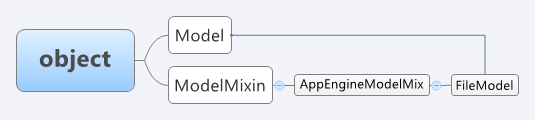
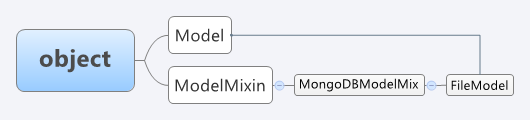
now? now will it commit?
git-svn-id: https://svn.cs.hmc.edu/cs181b/fall11/ours/hsaxberg-jhester@979 b3dceee4-e711-448b-9f10-89700535f856

Changed region(s): [[0.2415, 0.125, 0.966, 0.875], [0.0604, 0.4, 0.2113, 0.6]]

diff --git a/final report/final report.tex b/final report/final report.tex
@@ -170,9 +170,9 @@ An overview, however, is possible. QUI translates its own models (user-defined, 
 the language of the backend specified by the user; this interface is what allows QUI to talk to the backend. Currently, model instance's interface is only 
 created when necessary (during getting and putting), in order to reduce the memory overhead that QUI entails. 
 
-In our tests, the performance gains garnered by storing the interface as an instance attribute are not noticeable, especially since models typically 
+In our tests, the performance gains garnered by storing the interface as an instance attribute are not noticeable, especially as models typically 
 have fewer than 20 attributes at a time. Since interfaces are generally classes in their own right, however, they can double (or more) the size of 
-the instance if they're stored.
+the instance if they're stored; this cost can quickly add up, if the user were to \il{get}/\il{put} numerous \il{Model}s.
 
 \subsection{Basic Data Structures}
 QUI has two foundational elements: \il{Model}s and \il{Field}s. These are both abstract classes; their purpose is more to serve as interface specifications
@@ -203,7 +203,7 @@ A QUI model need never use the extra methods provided by QUI; model classes can 
 a class to be a QUI model necessitates zero changes to any existing code besides the class definition.
 
 \subsection{Error Handling}
-QUI defines several custom subclass of \il{Exception}, \il{QUIException}, so that the
+QUI defines several custom subclasses of \il{Exception}, \il{QUIException}, so that the
 user can be informed about exactly what QUI thinks has gone wrong, and where, and with what values.
 QUI implements a few ``levels'' of exception, insofar as Python supports ``levels'' of program running. At the ``compilation'' level, QUI
 raises \il{ImproperlyConfigured} exceptions for any settings that are not valid or missing, with appropriate error messages alongside.
@@ -234,7 +234,7 @@ Admittedly, we are more familiar with QUI than might be said is average, so your
 \subsection{Alternatives to QUI}
 There are a few interfaces which share a common purpose with QUI -- the universalization of database access. None, however,
 make it their focus to unify \emph{non-relational} databases. Packages like SQLAlchemy and Django's proprietary ORM work to
-universalize access to many SQL-based relational databases, but neither officially supports non-relational databases of any sort.\\
+universalize access to many SQL-based relational databases, but neither officially supports non-relational databases of any sort.
 
 QUI attempts to address an untapped niche market; its declared purpose is unique amongst ORMs.
 \newpage
@@ -246,7 +246,7 @@ Here's what it might look like if you wanted to define a simple model:
 \lstdump[filemodel.py][defining a simple model]{model_definitions.py}
 
 \il{FileModel}'s family tree, after decoration, looks like this:
-\begin{figure}[h!tb]
+\begin{figure}[htb]
 \centering
 \includegraphics[width=400px]{FileModelInheritanceTree}
 \caption{\il{FileModel}'s family tree.}
@@ -272,9 +272,9 @@ but only acts on a few:
 	\item \il{db}, which takes a string and defaults to a backend-specific value.
 	\item \il{port}, which takes an integer, and defaults to a backend-specific port.
 \end{enumerate}
-Our simple \il{FileModel}, then, uses the AppEngine backend, and will be stored locally, with default settings. Any subclasses of \il{FileModel}
+Our simple \il{FileModel}, then, uses the MongoDB backend, and will be stored locally, with default settings. Any subclasses of \il{FileModel}
 will autoatically inherit these settings, but fine control is possible by defining \il{_host, _db, _port} on the subclass in question. If, for whatever
-reason, we decided we'd rather store \il{FileModel}s in MongoDB (for example), we'd have to change line 6 to \il{@stored(backend='MongoDB')}, 
+reason, we decided we'd rather store \il{FileModel}s using Pickling (for example), we'd have to change line 6 to \il{@stored(backend='Pickle')}, 
 and QUI would acquiesce, no questions asked.
 
 Next, we set some fields that we think a \il{FileModel} should have:
@@ -362,7 +362,7 @@ and even some non-fundamentals, of using QUI pretty extensively. The user has a 
 Models, and are able to give the Model functionality in whatever manner they deem fit.
 
 \subsection{Semantic Abstractions/Building Blocks}
-QUI is abstracted into a number of different, though related sections. The user creates some sort of model (e.g., a FileModel), and performs \texttt{put, get,} and \texttt{create} operations as needed (they can also create other subclasses or functions within the FileModel class). At the top of the file (for now), users must import
+QUI is abstracted into a number of different, though related sections. The user creates some sort of model (e.g., a FileModel), and performs \il{put, get,} and \il{create} operations as needed (they can also create other subclasses or functions within the FileModel class). At the top of the file (for now), users must import
 our Model, any fields they want to use, and any decorators they want to use. 
 
 Under the hood, operations become more complex for each API.  At its core, however, QUI uses the 'black box' of the API for each backend database, and accesses methods
@@ -401,14 +401,14 @@ The \il{subclass} decorator is similar, but only performs the operations relatin
 Currently, two backends are supported. 
 \subsubsection{MongoDB}
 	MongoDB is a  popular, free non-relational database. For putting, model instances are converted to JSON, and then saved in a database via some port. The port default is 27017,
-	but the user can specify the port via passed in arguments. The \texttt{\_get\_interface()} method takes the model instance and sets each field as a key:value pair in the JSON
+	but the user can specify the port via passed in arguments. The \il{\_get\_interface()} method takes the model instance and sets each field as a key:value pair in the JSON
 	dict.
 
 	Getting is simply a matter of finding the object which corresponds to the passed in keyword arguments.
 	
 \subsubsection{Pickling}
-	Also supported is local storage of model instances, using the Python pickle module. Model instances are stored in the directory specified by the \texttt{\_path} variable, in
-	the file $Modelname\backslash InstanceName$. Sadly, Python's pickle module will only pickle global classes (namely, not our Models), so this backend simply pickles a dict
+	Also supported is local storage of model instances, using the Python pickle module. Model instances are stored in the directory specified by the \il{\_path} variable, in
+	the file $Modelname\backslash InstancePrimaryKey$. Sadly, Python's pickle module will only pickle global classes (namely, not our \il{Model}s), so this backend simply pickles a dict
 	which contains the state of the model instance.
 
 	
@@ -417,7 +417,7 @@ Currently, two backends are supported.
 \newpage	
 \section{Evaluation}
 The basic implementation of QUI went as planned, building the framework for adding various backends. Adding a new backend is a nontrivial task, but only one file needs to be added
-(\texttt{NewBackEndMixins.py}) defining the necessary classes, and QUI will take care of performing the operations given a new Model.
+(\il{NewBackEndMixins.py}) defining the necessary classes, and QUI will take care of performing the operations for a \il{Model} decorated to use that backend.
 
 Likewise, QUI's syntax is clear and concise, providing basic functionality while allowing the user full access to the power of Python. The user is free to use our built-in backend mixins, or 
 to define their own if they so wish. This is well in keeping with the idea of non-relational databases: to give the user the flexibility they need to extend their applications in whatever
@@ -425,19 +425,19 @@ directions they wish to go.
 
 However, some difficulties were encountered in the implementation of QUI. Our initial intention was to use Google AppEngine as another backend, but upon investigation into the AppEngine
 datastore, we found that AppEngine supports a non-relational database solely for applications on Google AppEngine. Pulling out just the datastore connection proved essentially impossible 
-without a working application online. In light of these, providing support for just the AppEngine database seemed both overly time-consuming and unlikely to benefit any customers, as they
+without a working application online. In light of this, providing support for just the AppEngine database seemed both overly time-consuming and unlikely to benefit any users, as they
 still have to use other AppEngine functionalities to access their datastores. So, we focused on MongoDB and Pickling as our supported backends.
 
 Time constraints also presented an issue during later development. The two methods required for specific backend FieldMixins have not yet been fully implemented, as 
-they have almost no impact on the usability of the database and were added as a potential feature that might be convenient to users. The method \texttt{translate()} currently returns the 
-value of a field, but would in the future convert a top-level \texttt{StringField()} (for example) to a \texttt{db.StringProperty()}, or whatever is appropriate for that backend.
+they have almost no impact on the usability of the database and were added as a potential feature that might be convenient to users. The method \il{translate()} currently returns the 
+value of a field, but would in the future convert a top-level \il{StringField()} (for example) to a \il{db.StringProperty()}, or whatever is appropriate for that backend.
 
 QUI was developed and implemented as a team. The initial design was done entirely on whiteboards with both participants working together.
 
   Later in the process, pair programming was used, with both members working on one computer. This was the abstract base classes and later the classes for the mixins to inherit. 
   
   The last stage of the project was actually developing for the backends. The backends were split between the two team members, though both had input in each backend --- for example, the
-   decision to not support AppEngine as a backend was made as a team.
+   decision to stop trying to support AppEngine as a backend was made as a team.
 
 \newpage
 \appendix
@@ -452,6 +452,8 @@ Non-relational databases are not as restricted in their structure (see Figure~\r
 columns, each model instance is a 'page' in the database, with its own fields (some of which may be required, and others specific to the instance itself). So, 
 non-relational databases are much more horizontally flexible when freezing the database would be inopportune if a new field needs to be added.
 
+Implementations of non-relational databases vary widely between backends, but the main idea of non-relational databases is removing the field restriction for the user.
+One of QUI's basic goals is to preserve this functionality. 
 \begin{figure}[htb]
 \centering
 \includegraphics[width=300px]{RelNonRel}
@@ -459,7 +461,5 @@ non-relational databases are much more horizontally flexible when freezing the d
 \label{fig:reltab}
 \end{figure}
 
-Implementations of non-relational databases vary widely between backends, but the main idea of non-relational databases is removing the field restriction for the user.
-One of QUI's basic goals is to preserve this functionality. 
 
 \end{document}
